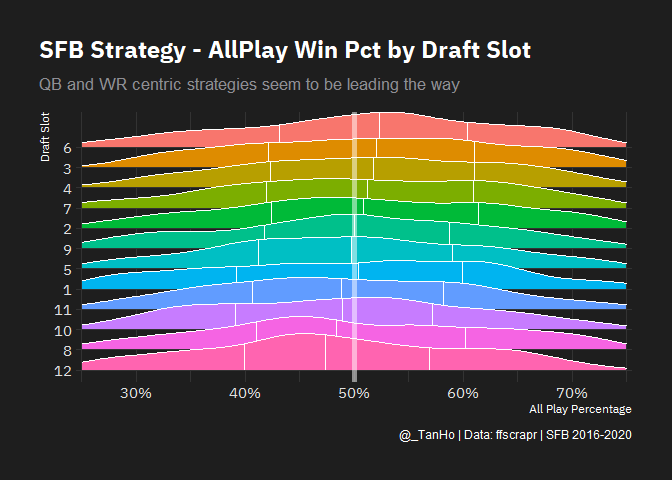
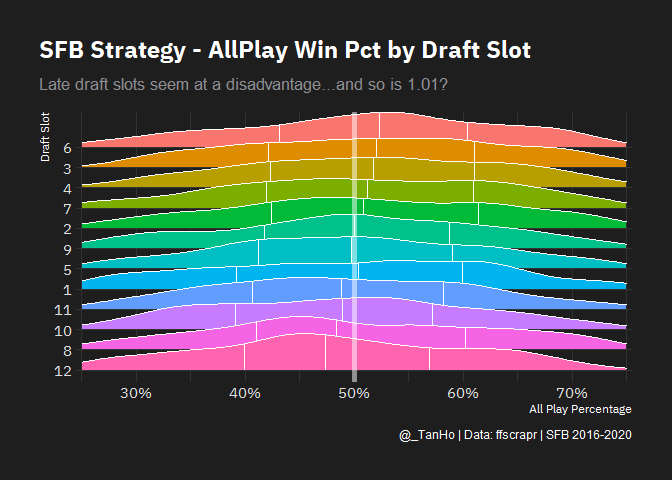
patch subtitle

Changed region(s): [[0.0625, 0.1562, 0.6875, 0.1875]]

diff --git a/R/draft_slots.md b/R/draft_slots.md
@@ -52,7 +52,7 @@ draft_slot_results %>%
   ylab("Draft Slot") +
   labs(
     title = "SFB Strategy - AllPlay Win Pct by Draft Slot",
-    subtitle = "QB and WR centric strategies seem to be leading the way",
+    subtitle = "Late draft slots seem at a disadvantage...and so is 1.01?",
     caption = "@_TanHo | Data: ffscrapr | SFB 2016-2020"
   )
 ```
